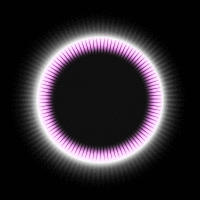
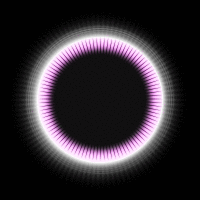
Increase fancyness of fancy progress dialog
git-svn-id: https://svn.code.sf.net/p/dispcalgui/code/trunk@3046 6ae35eb0-b8ff-4ca7-919d-0ec1eff389cd

diff --git a/dispcalGUI/wxwindows.py b/dispcalGUI/wxwindows.py
@@ -171,13 +171,18 @@ class AnimatedBitmap(wx.PyControl):
 			first_frame, last_frame = self.range
 		else:
 			first_frame, last_frame = 0, -1
+		if first_frame < 0:
+			first_frame += len(self._bitmaps)
 		if last_frame < 0:
 			last_frame += len(self._bitmaps)
-		if self.frame < last_frame:
-			self.frame += 1
+		frame = self.frame
+		if frame < last_frame:
+			frame += 1
 		elif self.loop:
-			self.frame = first_frame
-		self.Refresh()
+			frame = first_frame
+		if frame != self.frame:
+			self.frame = frame
+			self.Refresh()
 
 	def Play(self, fps=20):
 		self._timer.Start(1000.0 / fps)
@@ -3766,11 +3771,51 @@ class BetterPyGauge(pygauge.PyGauge):
 		self.Unbind(wx.EVT_TIMER)
 		self.Bind(EVT_BETTERTIMER, self.OnTimer, self._timer)
 		self.Bind(wx.EVT_WINDOW_DESTROY, self.OnDestroy)
-		self.Start(50)
+		self.Start()
 	
 	def OnDestroy(self, event):
 		self._timer.Stop()
 		del self._timer
+
+	def OnPaint(self, event):
+		"""
+		Handles the ``wx.EVT_PAINT`` event for L{PyGauge}.
+
+		:param `event`: a `wx.PaintEvent` event to be processed.
+		"""
+
+		dc = wx.BufferedPaintDC(self)
+		gc = wx.GraphicsContext.Create(dc)
+		dc.SetBackground(wx.Brush(self.Parent.BackgroundColour))
+		dc.Clear()
+
+		rect = self.GetClientRect()
+
+		if self._border_colour:
+			gc.SetPen(wx.Pen(self._border_colour))
+		else:
+			gc.SetPen(wx.Pen(self.BackgroundColour))
+		gc.SetBrush(wx.Brush(self.BackgroundColour))
+		gc.DrawRoundedRectangle(rect.X, rect.Y, rect.Width - 1,
+								rect.Height - 1, (rect.Height - 1) / 2)
+
+		pad = self.GetBorderPadding()
+		if self._border_colour:
+			pad += 1
+		if pad:
+			rect.Deflate(pad, pad)
+
+		if self._barGradientSorted:
+			for i, gradient in enumerate(self._barGradientSorted):
+				c1, c2 = gradient
+				w = max(rect.Width * (float(self._valueSorted[i]) / self._range),
+						rect.Height)
+				gc.SetBrush(gc.CreateLinearGradientBrush(rect.X, rect.Y,
+														 rect.Y + w,
+														 rect.Y, c1, c2))
+				gc.SetPen(wx.TRANSPARENT_PEN)
+				gc.DrawRoundedRectangle(rect.X, rect.Y, w, rect.Height,
+										(rect.Height) / 2)
 
 	def OnTimer(self, event):
 		gradient = self._barGradient
@@ -4176,7 +4221,7 @@ class ProgressDialog(wx.Dialog):
 	
 	def __init__(self, title=appname, msg="", maximum=100, parent=None, style=None, 
 				 handler=None, keyhandler=None, start_timer=True, pos=None,
-				 pauseable=False, fancy=True):
+				 pauseable=False, fancy=True, allow_close=False):
 		if style is None:
 			style = (wx.PD_APP_MODAL | wx.PD_ELAPSED_TIME |
 					 wx.PD_REMAINING_TIME | wx.PD_CAN_ABORT | wx.PD_SMOOTH)
@@ -4206,6 +4251,7 @@ class ProgressDialog(wx.Dialog):
 		self.skip = False
 		self.paused = False
 		self.progress_type = 0  # 0 = processing, 1 = measurement
+		self.allow_close = allow_close
 
 		margin = 12
 
@@ -4253,8 +4299,7 @@ class ProgressDialog(wx.Dialog):
 		if fancy:
 			self.gauge = BetterPyGauge(self, wx.ID_ANY, range=maximum,
 									   size=(-1, 4))
-			self.gauge.SetBackgroundColour("#202020")
-			self.gauge.SetBorderColour("#0066CC")
+			self.gauge.BackgroundColour = "#003366"
 			self.gauge.SetBarGradients([("#0099CC", "#00CCFF"),
 									    ("#0088BB", "#00BBEE"),
 									    ("#0077AA", "#00AADD"),
@@ -4422,7 +4467,7 @@ class ProgressDialog(wx.Dialog):
 		if hasattr(self, "cancel"):
 			self.cancel.Disable()
 		self.pause_continue.Disable()
-		if not self.timer.IsRunning():
+		if not self.timer.IsRunning() and self.allow_close:
 			self.Destroy()
 		elif self.gauge.GetValue() == self.gauge.GetRange():
 			event.Skip()
@@ -4539,10 +4584,15 @@ class ProgressDialog(wx.Dialog):
 		if self.progress_type == 0:
 			# Processing
 			range = (60, 68)
-		else:
+		elif self.progress_type == 1:
 			# Measuring
+			range = (-1, -1)
+		else:
+			# Generating test patches
 			range = (27, 36)
 		self.animbmp.SetBitmaps(bitmaps, range=range, loop=True)
+		if range[0] == -1:
+			self.animbmp.frame = len(self.animbmp._bitmaps) - 1
 		wx.CallLater(50, lambda: self and self.IsShown() and
 								  self.animbmp.Play(20))
 
@@ -4569,7 +4619,10 @@ class ProgressDialog(wx.Dialog):
 		else:
 			bitmaps = ProgressDialog.bitmaps[progress_type] = []
 			if progress_type == 0:
-				# Processing
+				# Animation for processing
+				for pth in get_data_path("theme/shutter_anim", r"\.png$") or []:
+					im = wx.Image(pth)
+					bitmaps.append(im)
 				for pth in get_data_path("theme/jet_anim", r"\.png$") or []:
 					im = wx.Image(pth)
 					# Blend red
@@ -4577,28 +4630,40 @@ class ProgressDialog(wx.Dialog):
 					# Adjust for background
 					im.AdjustMinMax(1.0 / 255 * 0x14)
 					bitmaps.append(im)
-				# Needs to be exactly 8 images
-				if bitmaps and len(bitmaps) == 8:
+				# Needs to be exactly 17 images
+				if bitmaps and len(bitmaps) == 17:
 					for i in xrange(7):
-						bitmaps.extend(bitmaps[:8])
-					bitmaps.extend(bitmaps[:4])
+						bitmaps.extend(bitmaps[9:17])
+					bitmaps.extend(bitmaps[9:13])
 					# Fade in
-					for i, im in enumerate(bitmaps[:10]):
+					for i, im in enumerate(bitmaps[9:19]):
+						bg = bitmaps[8].ConvertToBitmap()
 						im = im.AdjustChannels(1, 1, 1, i / 10.0)
+						bg.Blend(im.ConvertToBitmap(), 0, 0)
+						bitmaps[i + 9] = bg
+					for i, im in enumerate(bitmaps[:9]):
 						bitmaps[i] = im.ConvertToBitmap()
 					# Normal
-					for i in xrange(50):
-						im = bitmaps[i + 10].Copy()
+					for i in xrange(41):
+						im = bitmaps[i + 19].Copy()
 						im.RotateHue(.05 * (i / 50.0))
-						bitmaps[i + 10] = im.ConvertToBitmap()
+						bitmaps[i + 19] = im.ConvertToBitmap()
 					for i, im in enumerate(bitmaps[60:]):
 						im = im.Copy()
 						im.RotateHue(.05)
 						bitmaps[i + 60] = im.ConvertToBitmap()
 					# Fade out
 					bitmaps.extend(reversed(bitmaps[:60]))
+			elif progress_type == 1:
+				# Animation for measurements
+				for i, pth in enumerate(get_data_path("theme/shutter_anim", r"\.png$") or []):
+					if not i % 2:
+						bmp = wx.Bitmap(pth)
+						bitmaps.append(bmp)
+				if bitmaps and len(bitmaps) == 5:
+					bitmaps.extend(reversed(bitmaps[:5]))
 			else:
-				# Measuring
+				# Animation for generating test patches
 				for pth in get_data_path("theme/patch_anim", r"\.png$") or []:
 					im = wx.Image(pth)
 					bitmaps.append(im)
@@ -4657,6 +4722,8 @@ class ProgressDialog(wx.Dialog):
 		if progress_type != self.progress_type:
 			if self.progress_type == 0:
 				delay = 4000
+			elif self.progress_type == 1:
+				delay = 500
 			else:
 				delay = 2000
 			if hasattr(self, "animbmp"):
@@ -4678,7 +4745,7 @@ class ProgressDialog(wx.Dialog):
 			self.elapsed_timer.Start(1000)
 		if hasattr(self, "animbmp"):
 			self.anim_fadein()
-		if hasattr(self, "sound"):
+		if hasattr(self, "sound") and self.progress_type == 0:
 			self.sound_fadein()
 	
 	def stop_timer(self, immediate=True):
@@ -5449,7 +5516,8 @@ def test():
 	style = (wx.PD_ELAPSED_TIME | wx.PD_REMAINING_TIME | wx.PD_CAN_ABORT |
 			 wx.PD_SMOOTH)
 	p = ProgressDialog(msg="".join(("Test " * 5)), maximum=10000, style=style,
-					   pauseable=True, fancy=not "+fancy" in sys.argv[1:])
+					   pauseable=True, fancy=not "+fancy" in sys.argv[1:],
+					   allow_close=True)
 	#t = SimpleTerminal(start_timer=False)
 	app.MainLoop()
 

diff --git a/dispcalGUI/worker.py b/dispcalGUI/worker.py
@@ -1052,6 +1052,26 @@ class LineCache():
 					  self.cache[-1:])[-self.maxlines - 1:]
 
 
+class Producer(object):
+
+	""" Generic producer """
+
+	def __init__(self, worker, producer, continue_next=False):
+		self.worker = worker
+		self.producer = producer
+		self.continue_next = continue_next
+
+	def __call__(self, *args, **kwargs):
+		result = self.producer(*args, **kwargs)
+		if not self.continue_next and self.worker.progress_wnd:
+			wx.CallAfter(self.worker.progress_wnd.stop_timer, False)
+			if (hasattr(self.worker.progress_wnd, "animbmp") and
+				self.worker.progress_wnd.progress_type == 0):
+				# Allow time for animation fadeout
+				sleep(4)
+		return result
+
+
 class StringWithLengthOverride(UserString):
 
 	""" Allow defined behavior in comparisons and when evaluating length """
@@ -5964,6 +5984,8 @@ usage: spotread [-options] [logfile]
 					self.measurement_sound.safe_play()
 				else:
 					self.commit_sound.safe_play()
+					if hasattr(self.progress_wnd, "animbmp"):
+						self.progress_wnd.animbmp.frame = 0
 
 	def patterngenerator_send(self, rgb, raise_exceptions=False):
 		""" Send RGB color to pattern generator """
@@ -6771,6 +6793,8 @@ usage: spotread [-options] [logfile]
 			if self.pauseable:
 				# If pauseable, we assume it's a measurement
 				progress_type = 1  # Measuring
+			elif self.cmdname == "targen":
+				progress_type = 2  # Generating test patches
 			else:
 				progress_type = 0  # Processing
 			if self.progress_wnd.progress_type != progress_type:
@@ -6882,6 +6906,8 @@ usage: spotread [-options] [logfile]
 			if pauseable:
 				# If pauseable, we assume it's a measurement
 				self.progress_wnd.progress_type = 1  # Measuring
+			elif self.cmdname == "targen":
+				self.progress_wnd.progress_type = 2  # Generating test patches
 			else:
 				self.progress_wnd.progress_type = 0  # Processing
 		if not self.progress_wnd.timer.IsRunning():
@@ -7139,6 +7165,7 @@ usage: spotread [-options] [logfile]
 			# Can't be zero!
 			progress_start = 1
 		self.activated = False
+		self.cmdname = None
 		self.cmdrun = False
 		self.finished = False
 		self.instrument_calibration_complete = False
@@ -7234,8 +7261,9 @@ usage: spotread [-options] [logfile]
 													 progress_msg, parent,
 													 resume, fancy)
 		self.thread = delayedresult.startWorker(self._generic_consumer, 
-												producer, [consumer, 
-														   continue_next] + 
+												Producer(self, producer,
+														 continue_next),
+												[consumer, continue_next] + 
 												list(cargs), ckwargs, wargs, 
 												wkwargs)
 		return True

diff --git a/dispcalGUI/wxaddons.py b/dispcalGUI/wxaddons.py
@@ -28,6 +28,14 @@ def AdjustMinMax(self, minvalue=0.0, maxvalue=1.0):
 wx.Image.AdjustMinMax = AdjustMinMax
 
 
+def Blend(self, bitmap, x, y):
+	""" Blend the given bitmap over the specified position in this bitmap. """
+	dc = wx.MemoryDC(self)
+	dc.DrawBitmap(bitmap, x, y)
+
+wx.Bitmap.Blend = Blend
+
+
 def GetRealClientArea(self):
 	""" Return the real (non-overlapping) client area of a display """
 	# need to fix overlapping ClientArea on some Linux multi-display setups

diff --git a/dispcalGUI/wxfixes.py b/dispcalGUI/wxfixes.py
@@ -110,6 +110,7 @@ if u"phoenix" in wx.PlatformInfo:
 
 	wx.DC.BeginDrawing = lambda self: None
 	wx.DC.DrawRectangleRect = lambda dc, rect: dc.DrawRectangle(rect)
+	wx.DC.DrawRoundedRectangleRect = lambda dc, rect, radius: dc.DrawRoundedRectangle(rect, radius)
 	wx.DC.EndDrawing = lambda self: None
 
 	def ContainsRect(self, *args):
